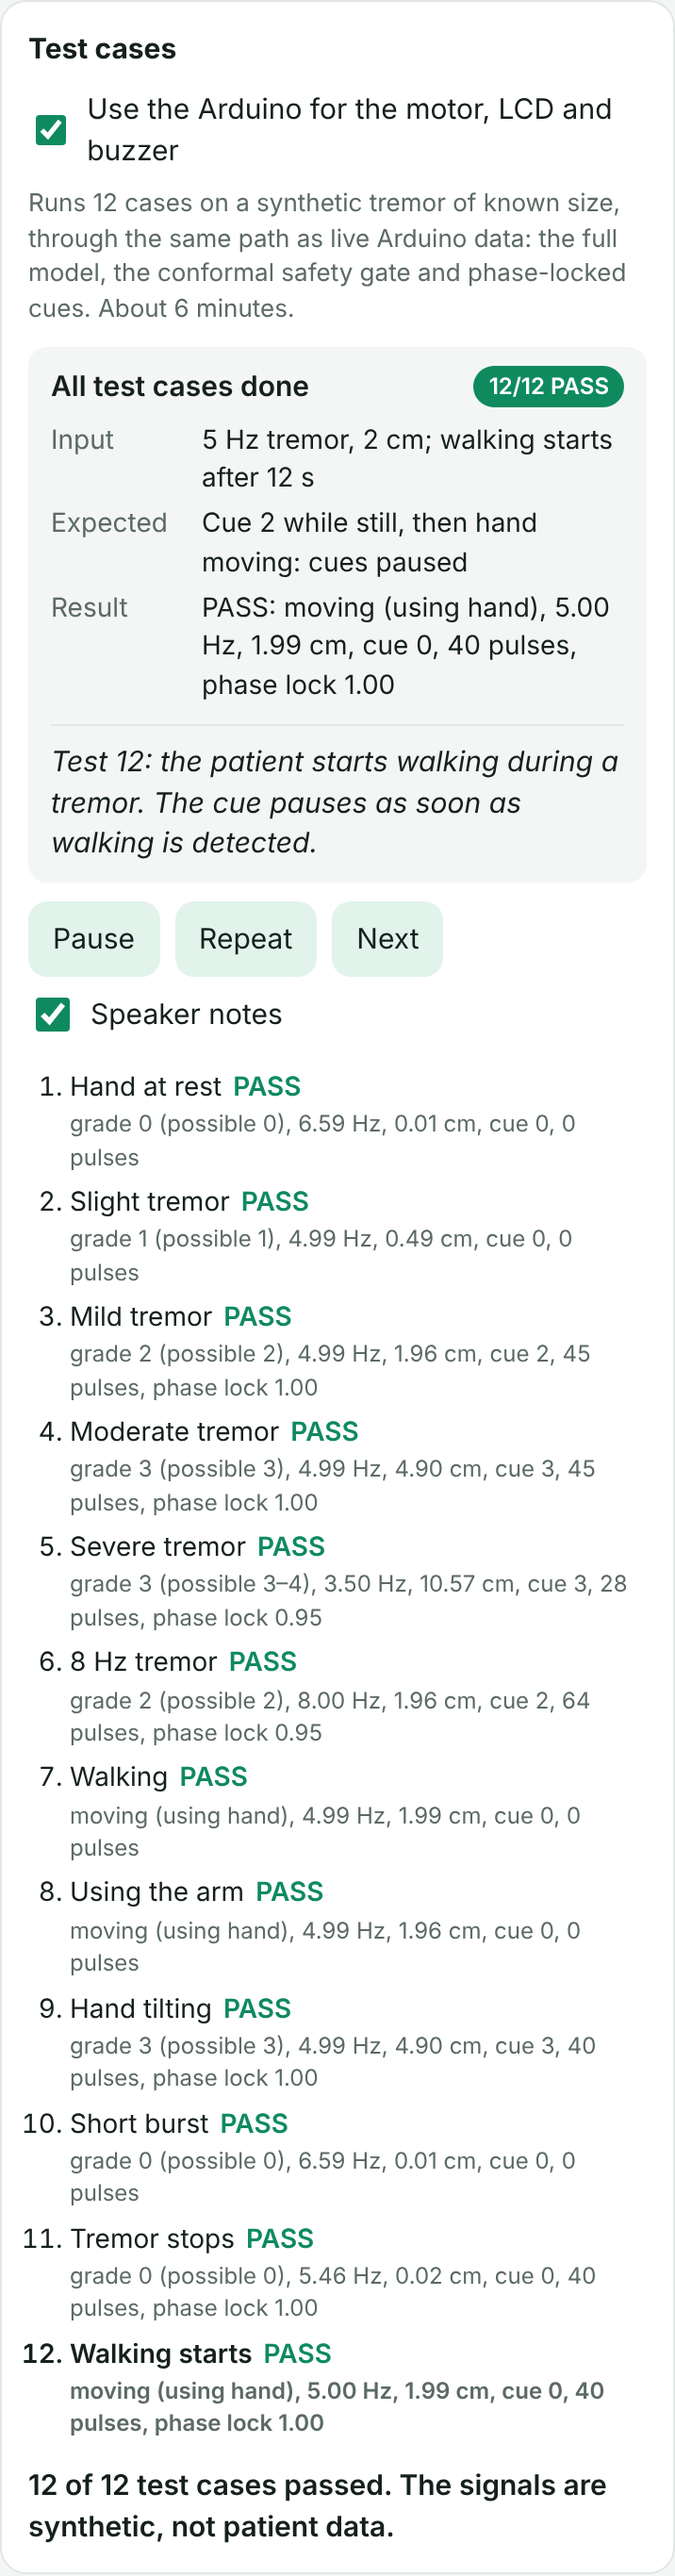
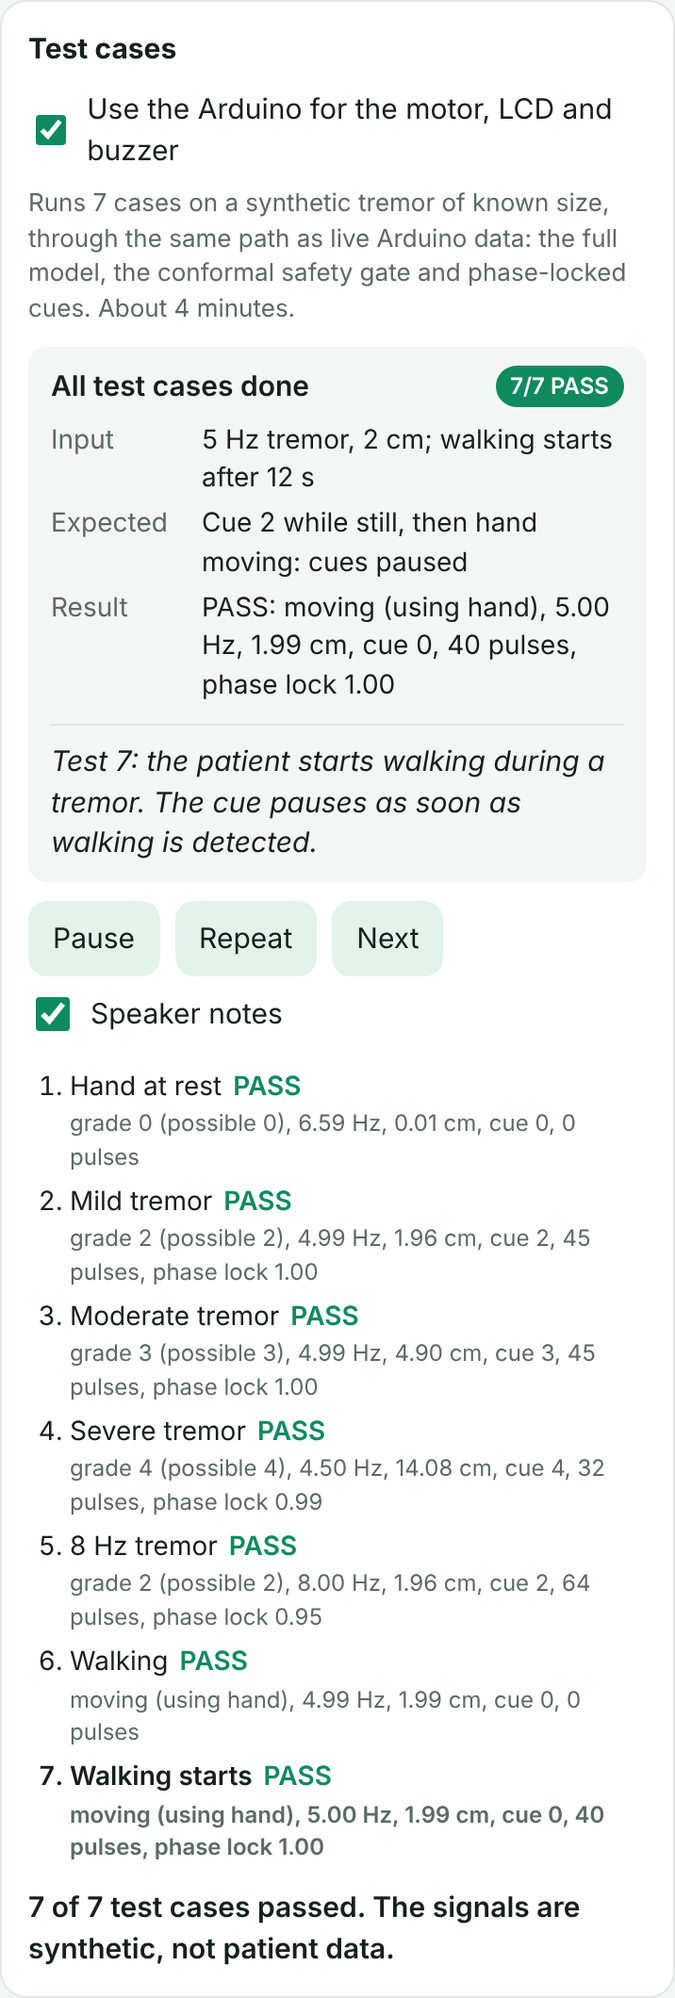
docs(hw): describe the 7 app test cases and the Uno pulse strength
Claude-Session: https://claude.ai/code/session_01Bfc1hPAyx2as7WBdhec4xc

diff --git a/hardware/README.md b/hardware/README.md
@@ -281,27 +281,31 @@ standalone mode after 5 seconds.
 
 ### Test cases in the app
 
-The app's **Test cases** source runs the same 12 cases as the demo sketch,
-through the app's full pipeline (GY-61 model, conformal safety gate,
-phase-locked cues), and uses the Uno only for the motor, LCD and buzzer.
-Keep `tremorsense_uno` on the Uno (not the demo sketch): the app needs its
-USB commands.
+The app's **Test cases** source runs 7 of the demo's cases (rest, grades 2, 3
+and 4, an 8 Hz tremor, walking, and walking starting mid-tremor) through the
+app's full pipeline (GY-61 model, conformal safety gate, phase-locked cues),
+and uses the Uno only for the motor, LCD and buzzer. Five of them cue, at
+strengths 2, 3, 4, 2 and 2. The severe case is 16 cm at 4.5 Hz here, so the
+app grades it 4 with confidence. Keep `tremorsense_uno` on the Uno (not the
+demo sketch): the app needs its USB commands.
 
 1. Serve and open the app as above.
 2. Choose **Test cases**, keep **Use the Arduino for the motor, LCD and
    buzzer** ticked, and tick **Speaker notes** if you want the lines to say.
-3. Press **Run test cases** and pick the Uno's port.
+3. Press **Run test cases** and pick the Uno's port. The LCD shows
+   `App connected`, the buzzer beeps and the motor buzzes once.
 
 Each case shows its input and expected result for 6 s, runs (the live card
 shows the grade, possible grades, activity and cue; the LCD shows
-`T3 G2 5.0Hz` / `Cue 2  set 2`; the motor pulses), then shows PASS or FAIL
-with what was measured for 6 s. **Pause**, **Repeat**, **Next** or a click on
-a case in the list control it. The list keeps every result, ready for a
-screenshot. Without the Arduino ticked it runs in the app alone.
+`T3 G3 5.0Hz` / `Cue 3  set 3`; the motor pulses), then shows PASS or FAIL
+with what was measured for 6 s. About 4 minutes in all. **Pause**,
+**Repeat**, **Next** or a click on a case in the list control it. Without the
+Arduino ticked it runs in the app alone.
 
-In the app, case 5 (12 cm at 3.5 Hz) sits at the border of grades 3 and 4:
-the model reports possible grades 3–4 and cues at 3, the lower end, which is
-the conformal gate at work. The same cases run in `web/test/testcases.test.mjs`.
+When the app drives the Uno, cue pulses are longer than on a phone so the
+coin motor has time to spin up: 45, 55 and 65 ms at PWM duty 200, 230 and 255
+for grades 2, 3 and 4, never more than a third of a tremor cycle. The same
+cases run in `web/test/testcases.test.mjs`.
 
 On held-out simulated subjects the GY-61 model grades 90.9% exactly and 100%
 within one grade, recognises activity 95.4% of the time, and its grade sets
